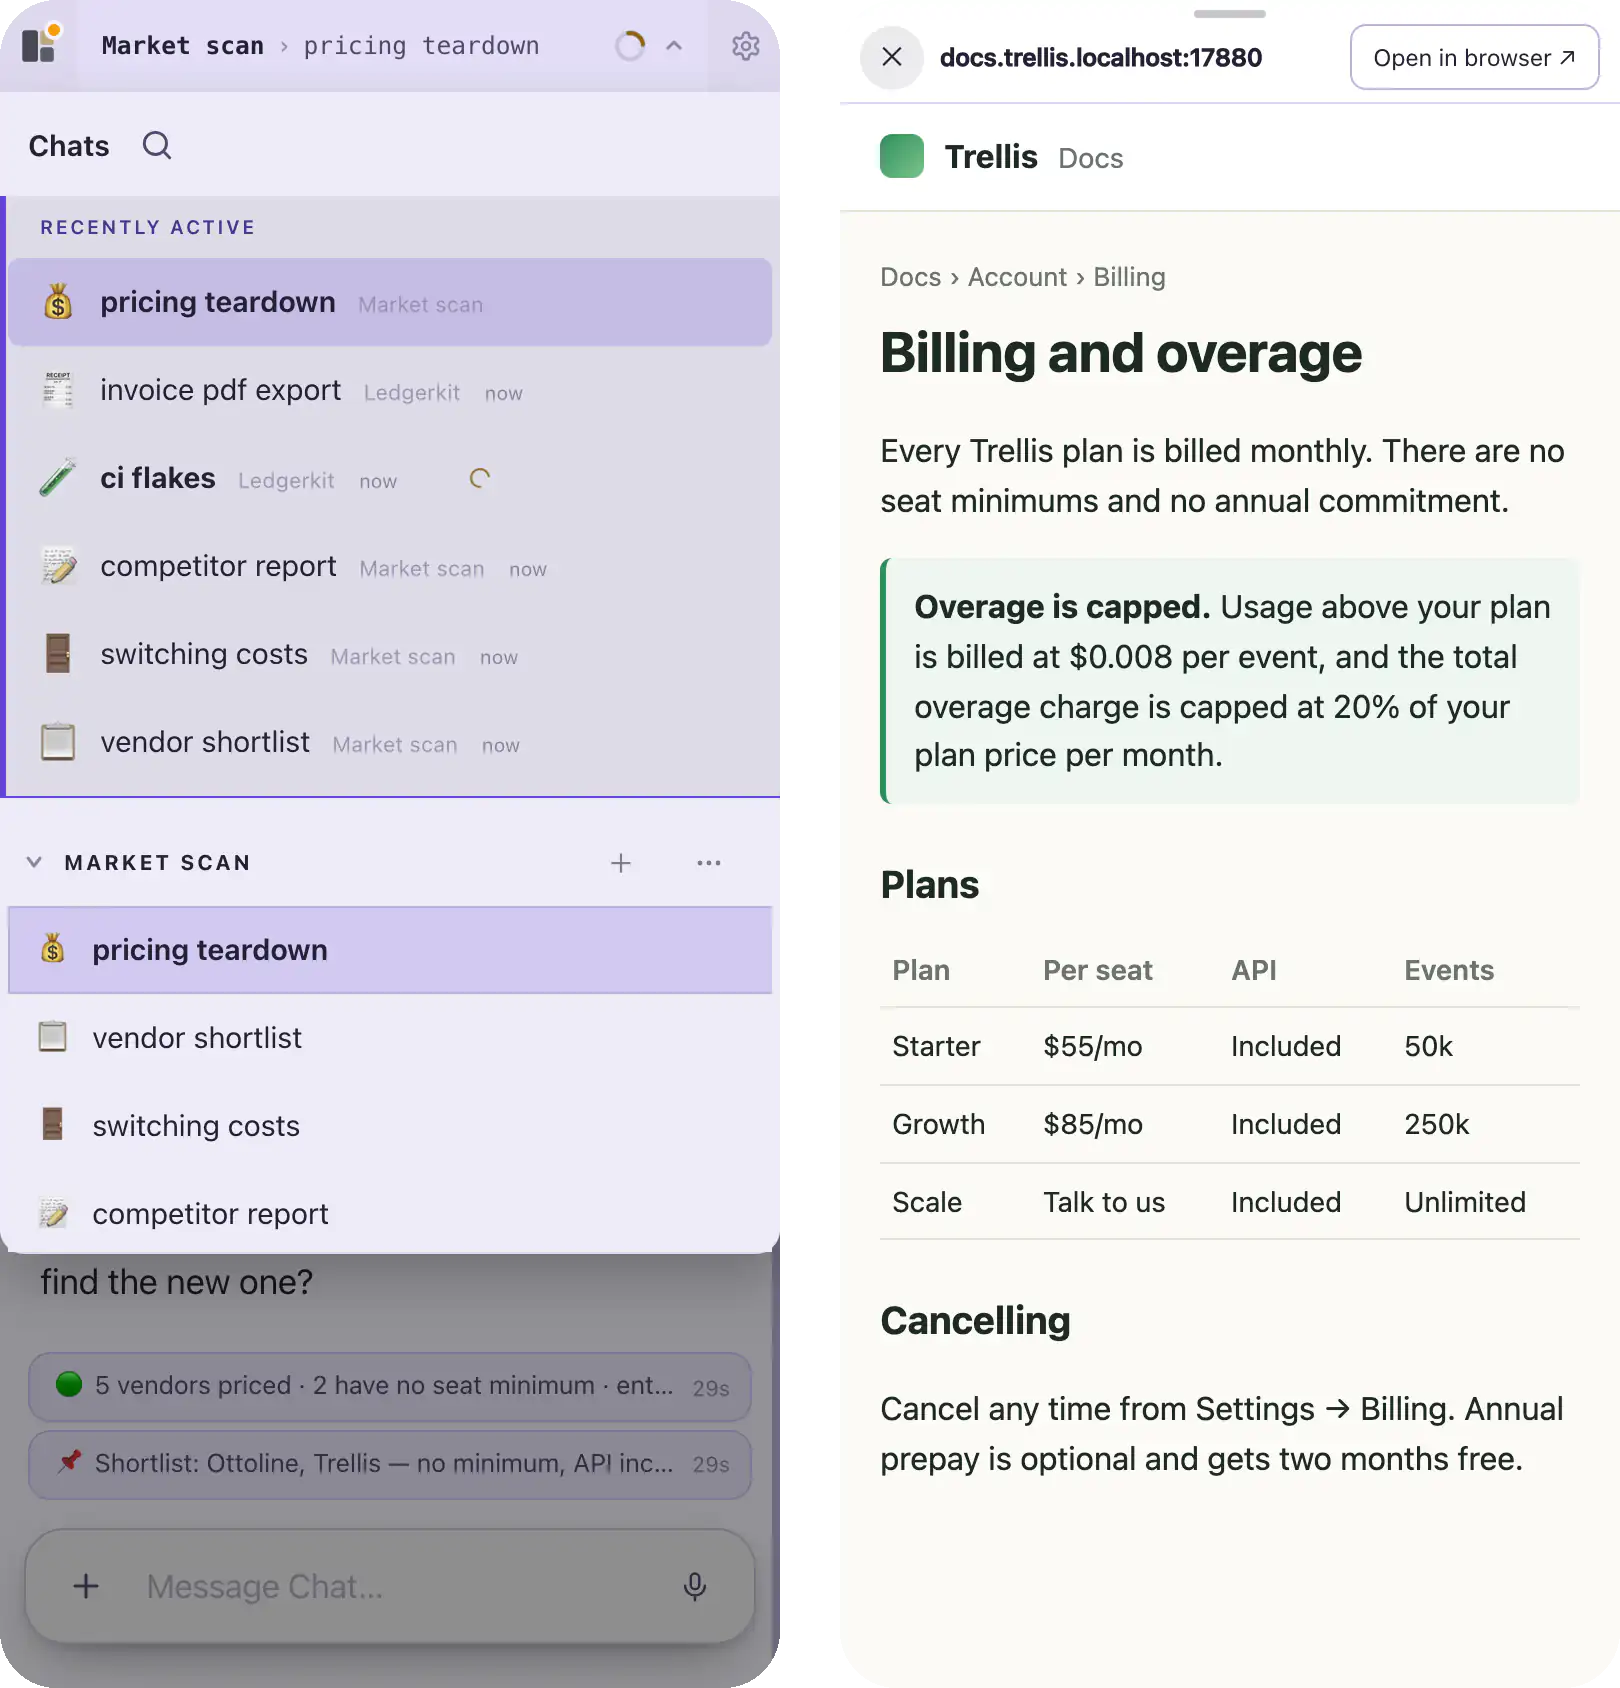
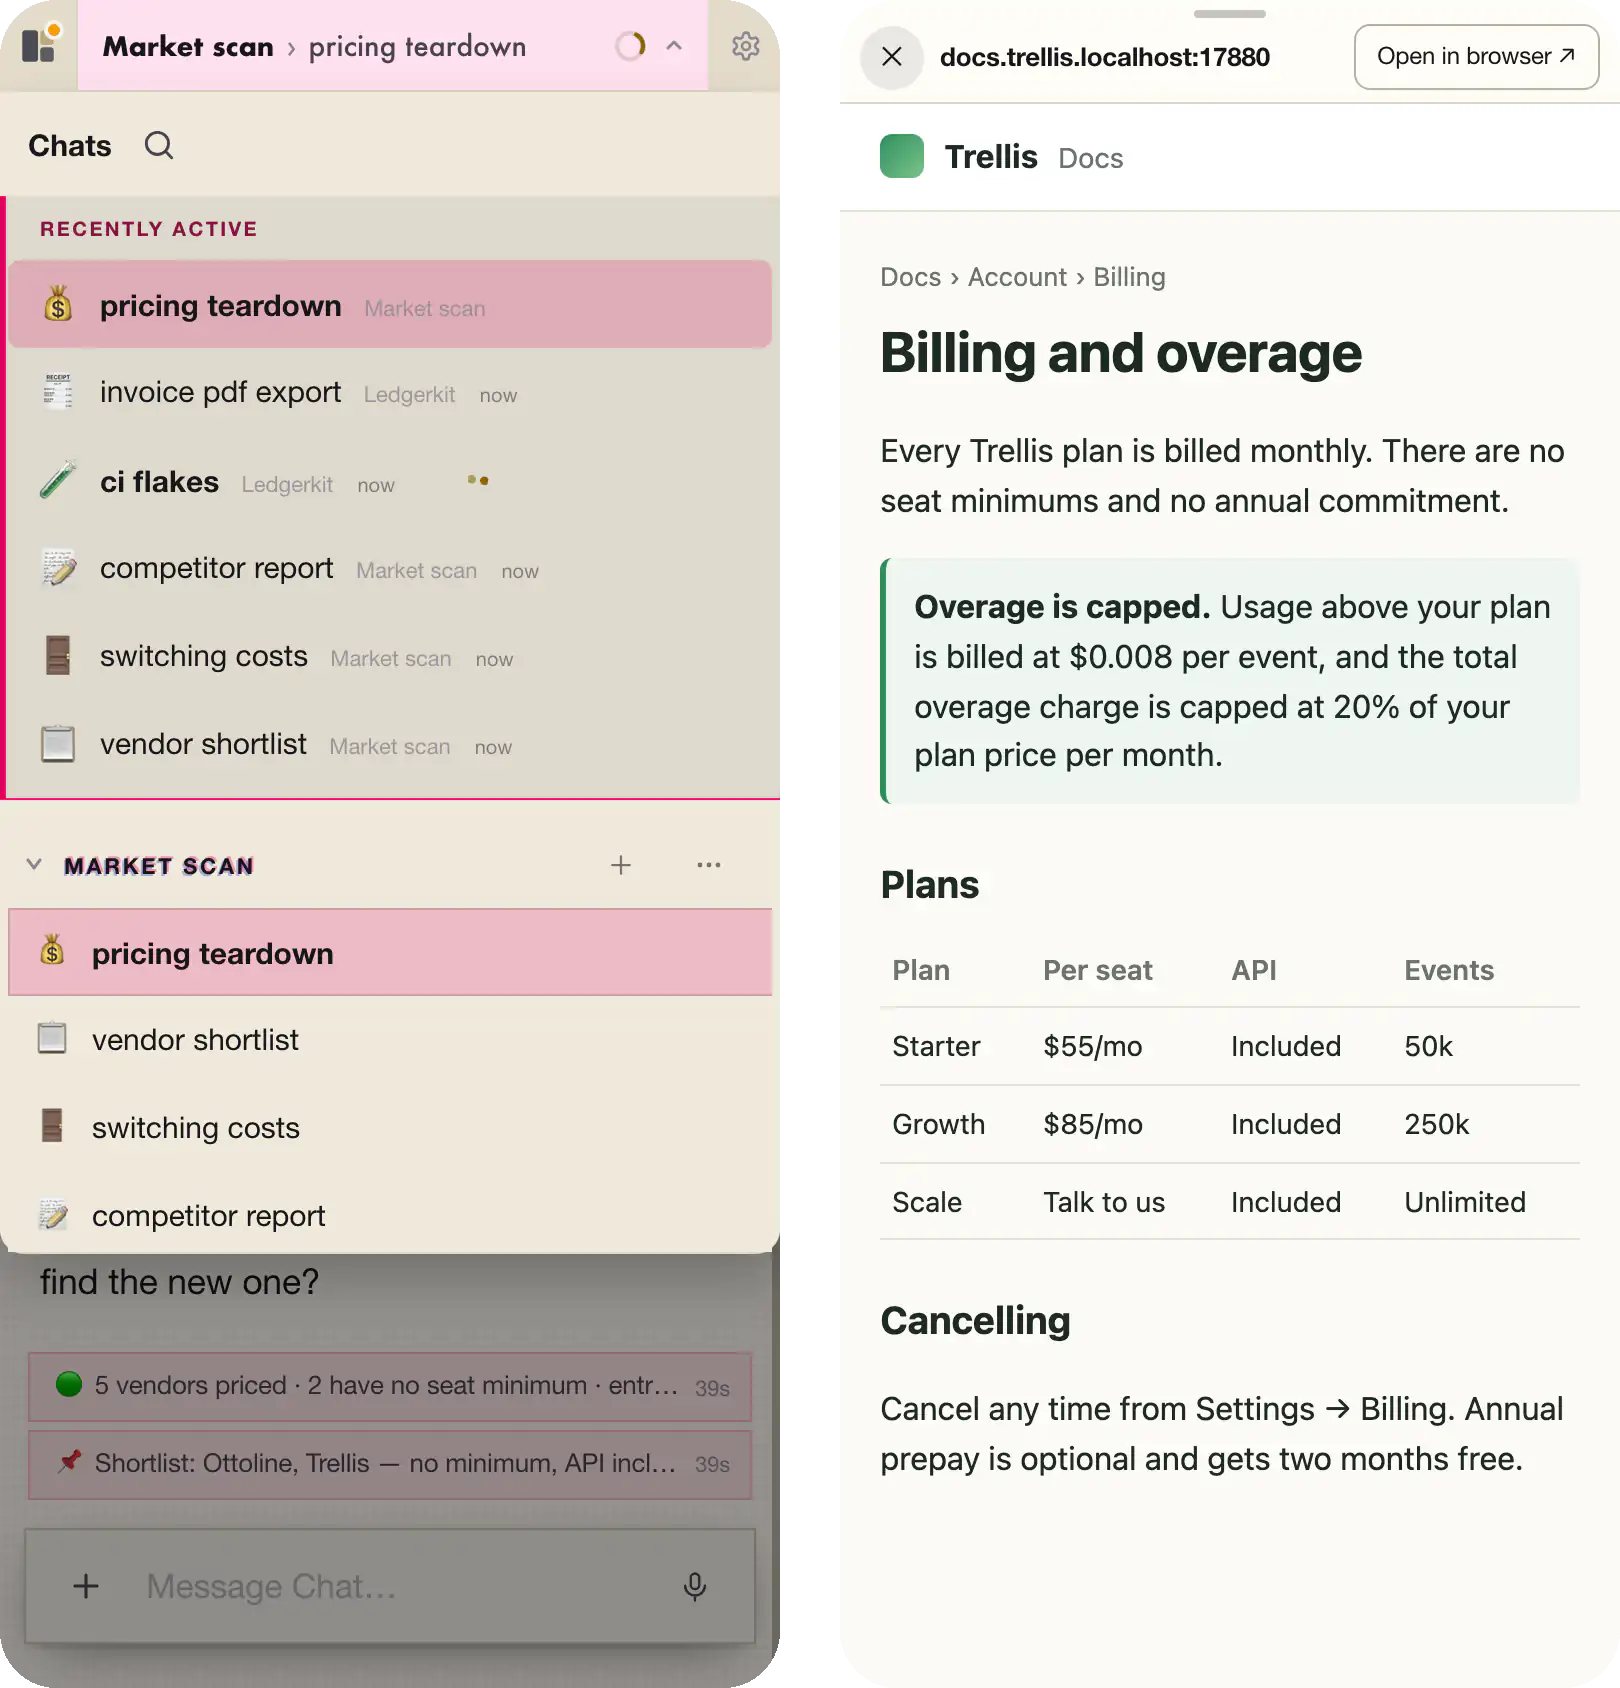
docs: reshoot every README image in the riso theme
The owner wants riso on the README: it is the one loud theme and it
photographs far better than the light ones. Same staged scenes as the
previous commit (drawer, action cards, Recently active band, artifacts
tab, embed, mobile link sheet); the capture kit now sets riso and
refuses to capture unless <html data-theme> actually reads riso.

Riso's halftone ground costs bytes: stills 28-88K at 2x, the tour
664K (960px, 64 colours).

diff --git a/docs/capture/cap/gif.py b/docs/capture/cap/gif.py
@@ -36,7 +36,7 @@ lines.append(f"file '{D}/{fr[-1]['n']:04d}.png'")
 open(f'{D}/list.txt', 'w').write('\n'.join(lines) + '\n')
 print(f'{total:.1f}s')
 out = sys.argv[1] if len(sys.argv) > 1 else '/private/tmp/mxd/tour.gif'
-vf = f'fps={FPS},scale={W}:-1:flags=lanczos'
+vf = f'fps={FPS},scale={W}:-1:flags={os.environ.get('FLAGS','lanczos')}'
 subprocess.run(['ffmpeg', '-loglevel', 'error', '-y', '-f', 'concat', '-safe', '0', '-i', f'{D}/list.txt',
                 '-vf', f'{vf},palettegen=max_colors={COLORS}:stats_mode={os.environ.get('STATS','diff')}', f'{D}/pal.png'], check=True)
 subprocess.run(['ffmpeg', '-loglevel', 'error', '-y', '-f', 'concat', '-safe', '0', '-i', f'{D}/list.txt', '-i', f'{D}/pal.png',

diff --git a/docs/capture/README.md b/docs/capture/README.md
@@ -29,6 +29,11 @@ mkdir -p /private/tmp/mxd/cap/node_modules && ln -sfn \
 /private/tmp/mxd/capture-all.sh      # seed, record the tour, take the stills
 ```
 
+The shots use the **riso** theme: `up.sh` sets it as the install's theme
+(`PUT /api/prefs/theme`), `cap/lib.mjs` also seeds `muxpad.settings.v1` in
+localStorage, and every capture refuses to run unless `<html data-theme>` reads
+`riso` (for the embed, inside the iframe).
+
 Captures run headless through the pane's own muxpad browser over CDP
 (`MUXPAD_API_URL` + `MUXPAD_TAB_ID`), at 2x. Then:
 
